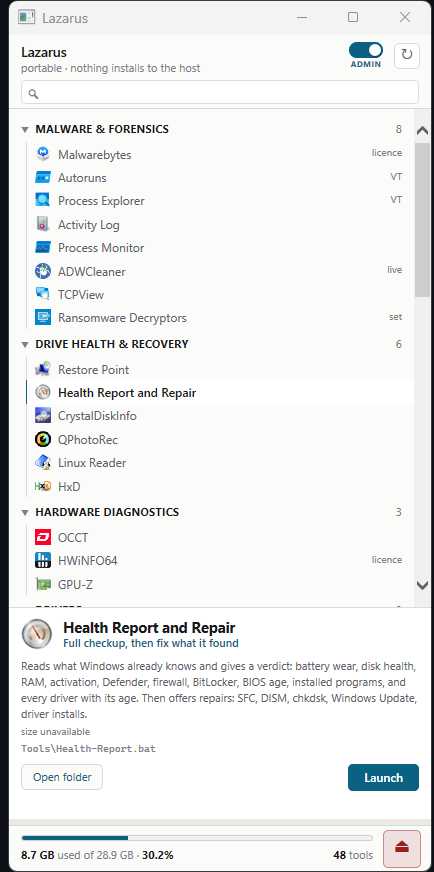
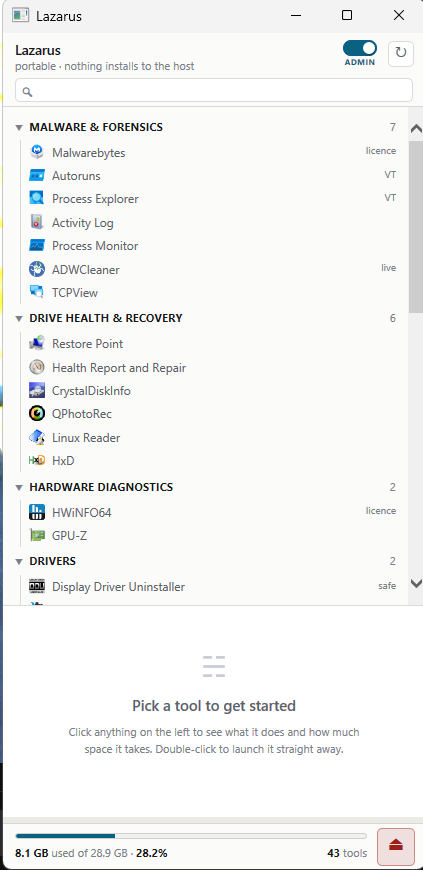
Retake the README screenshot, and make a stale one fail the build
The picture on the front page still showed the kit as it was before
this morning: Ransomware Decryptors under Malware and Forensics, OCCT
under Hardware Diagnostics, and a footer reading 48 tools and 8.7 GB.
The real numbers are 43 and 8.1. A public repo was advertising five
tools it does not contain.

Every text check passed the entire time. test-docs.ps1 was written
specifically to stop the documentation drifting from the launcher and
it sailed straight past this, because a regex cannot read a PNG.

So the count the screenshot shows is now written beside it as an HTML
comment and asserted against the launcher's own table. It cannot check
the pixels, but it makes the picture go stale LOUDLY instead of
quietly: change the catalogue and the build fails until somebody
retakes the shot. Proved to fail by setting the marker to 99.

The caption changed with it. It claimed every entry says what it is for
"before you run it" while showing the empty state, where the detail
pane says nothing yet. It now describes what the picture actually
shows, and says the detail appears on click, which is what the pane
itself tells you.

diff --git a/README.md b/README.md
@@ -4,12 +4,18 @@
 are fixing.** Find out what is wrong with a PC, repair it, strip out what should not be there, and
 put back what should. Any Windows 10 or 11 machine, yours or somebody else's.
 
+<!-- SCREENSHOT SHOWS 43 TOOLS. Tests\test-docs.ps1 checks that number
+     against the launcher's own table and FAILS if they diverge, because
+     adding or removing a tool makes this picture wrong and no text
+     check can read a PNG. If the test fails: retake the shot, then
+     update the number on this line. -->
 <p align="center">
   <img src="Docs/images/launcher.png" width="430"
-       alt="The Lazarus launcher: tools grouped by category with Health Report and Repair selected, showing its description and a Launch button">
+       alt="The Lazarus launcher: a search box, an admin toggle, and tools grouped into Malware and Forensics, Drive Health and Recovery, Hardware Diagnostics and Drivers, with disk usage and a tool count along the bottom">
   <br>
-  <em>Plug in, run <code>Start.bat</code>, pick a tool. Grouped, searchable, and every entry says
-  what it is for before you run it.</em>
+  <em>Plug in, run <code>Start.bat</code>, pick a tool. Grouped, searchable, and it shows you what
+  the stick is carrying at a glance. Click any entry and it says what it does, and how much space
+  it takes, before you run it.</em>
 </p>
 
 ## What it does
